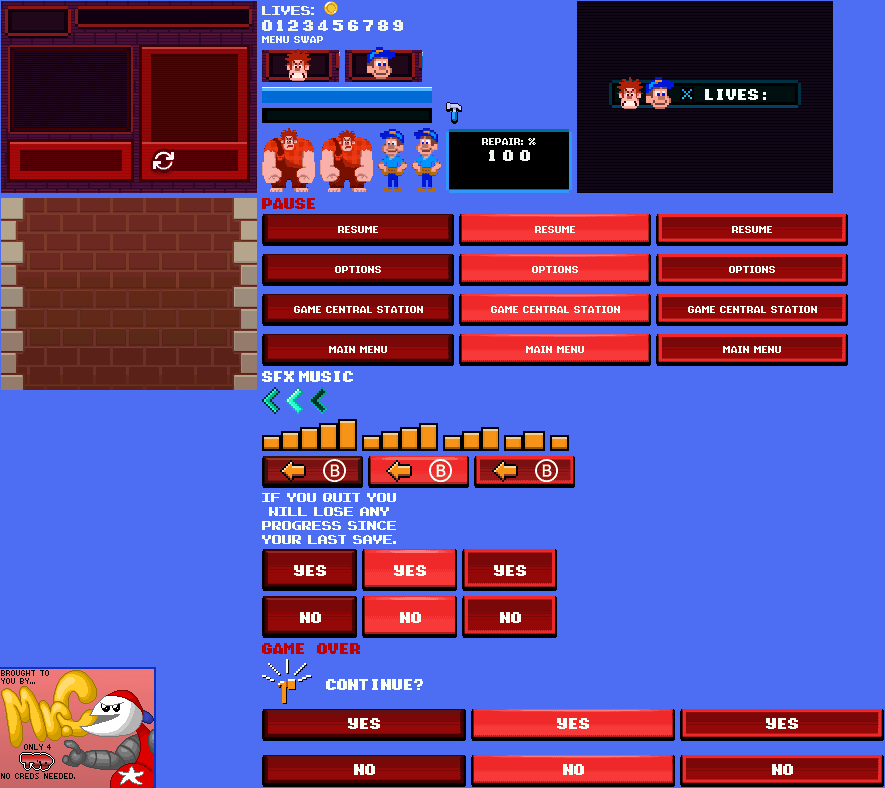
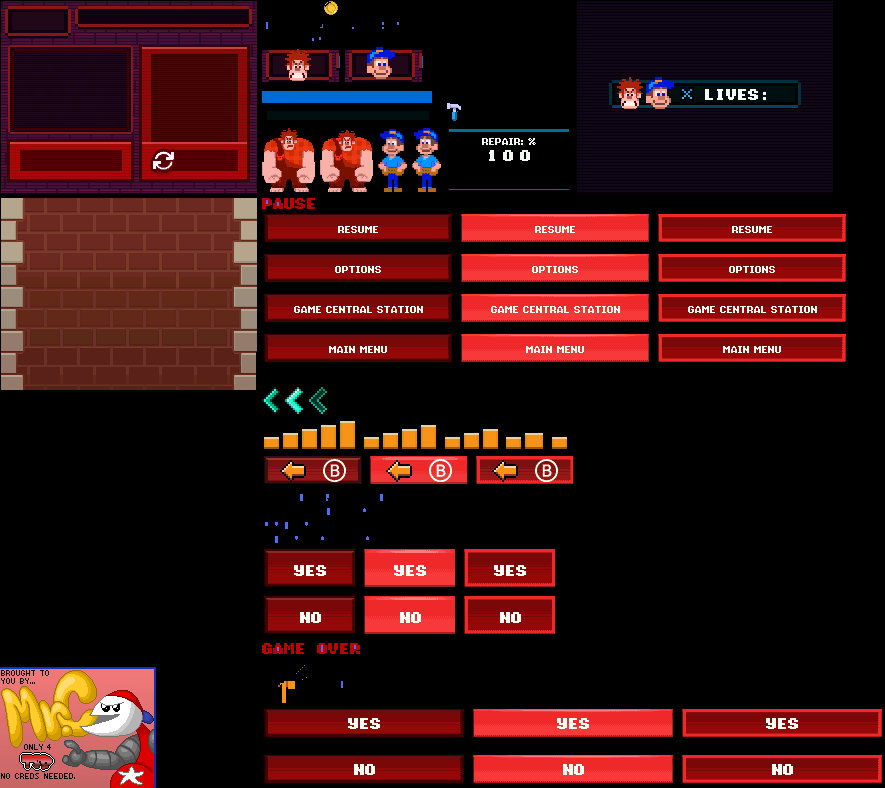
Sound bar exists but still need to create a cursor and some text for it

diff --git a/Sprint0/PauseMenu/PauseMenuHandler.cs b/Sprint0/PauseMenu/PauseMenuHandler.cs
@@ -10,31 +10,58 @@ namespace Poggus.PauseMenu
     public class PauseMenuHandler
     {
         private static float VOLSCALE = 0.2f;
-        private static float VOLFULL = 1f;
-        private static float VOLOFF = 1f;
+        private static float VOLFULL = 1.0f;
+        private static float VOLOFF = 0.0f;
         private Game1 game;
         ISprite Resume;
         ISprite Options;
+        ISprite SoundBar;
         Rectangle ResumeLoc = new Rectangle(new Point(330, 100), new Point(384, 64));
         Rectangle OptionsLoc = new Rectangle(new Point(330, 200), new Point(384, 64));
+        Rectangle Backdrop = new Rectangle(new Point(0, 0), new Point(1100, 1100));
+        Rectangle SoundLoc = new Rectangle(new Point(400, 200), new Point(95, 32));
         float volume;
-        Boolean cursor = true;
-        public Boolean options = false;
+        Boolean cursor = true; //true = resume false = options selected
+        public Boolean options = false; //true = in options false = normal page
+        public Boolean optionCursor = false; //true = difficulty false = volume
         public PauseMenuHandler(Game1 game)
         {   
             this.game = game;
             volume = game.soundManager.volume;
             Resume = game.pauseSpriteFactory.GetNewResumeSprite();
             Resume.CurrentFrame = 1;
+            SoundBar = game.pauseSpriteFactory.GetNewSoundBarSprite();
             Options = game.pauseSpriteFactory.GetNewOptionsSprite();
             Options.IsUISprite = true;
             Resume.IsUISprite = true;
+            SoundBar.IsUISprite = true;
         }
-
+        private void getSoundFrame()
+        {
+            volume = game.soundManager.volume;
+            if(volume <= 0.2f && volume > 0.0f)
+            {
+                SoundBar.CurrentFrame = 0;
+            } else if (volume <= 0.4f && volume > 0.2f)
+            {
+                SoundBar.CurrentFrame = 1;
+            } else if (volume <= 0.6f && volume > 0.4f)
+            {
+                SoundBar.CurrentFrame = 2;
+            } else if (volume <= 0.8f && volume > 0.6f)
+            {
+                SoundBar.CurrentFrame = 3;
+            } else if (volume <= 1.0f && volume > 0.8f)
+            {
+                SoundBar.CurrentFrame = 4;
+            }
+        }
+        
         public void Update()
         {
-            ResumeLoc = new Rectangle(new Point(330, 100), new Point(384, 64));
-            OptionsLoc = new Rectangle(new Point(330, 200), new Point(384, 64));
+            ResumeLoc = new Rectangle(new Point(330, 200), new Point(384, 64));
+            OptionsLoc = new Rectangle(new Point(330, 300), new Point(384, 64));
+            getSoundFrame();
         }
 
         public void increaseVolume()
@@ -43,6 +70,7 @@ namespace Poggus.PauseMenu
             {
                 volume += VOLSCALE;
             }
+            game.soundManager.volume = volume;
         }
         public void decreaseVolume()
         {
@@ -50,6 +78,11 @@ namespace Poggus.PauseMenu
             {
                 volume -= VOLSCALE;
             }
+            game.soundManager.volume = volume;
+        }
+        public void selectNextOptions()
+        {
+            optionCursor = !optionCursor;
         }
         public void toggleOptions()
         {
@@ -57,12 +90,9 @@ namespace Poggus.PauseMenu
         }
         public void executeButton()
         {
-            if (options)
+            if (!options)
             {
-
-            }
-            else
-            {
+                
                 if (cursor)
                 {
                     game.togglePause();
@@ -80,7 +110,9 @@ namespace Poggus.PauseMenu
             {
                 if (options)
                 {
-                    
+                    batch.Draw(fadeImage, Backdrop, Color.Black);
+                    getSoundFrame();
+                    if(volume > 0) SoundBar.Draw(batch, SoundLoc);
                 }
                 else
                 {

diff --git a/Sprint0/Commands/MenuLeftCommand.cs b/Sprint0/Commands/MenuLeftCommand.cs
@@ -13,7 +13,16 @@ namespace Poggus.Commands
         }
         public void Execute()
         {
-
+            if (game.Paused() && !game.inventoryOpen)
+            {
+                if (game.menuHandler.options)
+                {
+                    if (!game.menuHandler.optionCursor)
+                    {
+                        game.menuHandler.decreaseVolume();
+                    }
+                }
+            }
         }
     }
 }

diff --git a/Sprint0/Commands/MenuRightCommand.cs b/Sprint0/Commands/MenuRightCommand.cs
@@ -13,7 +13,16 @@ namespace Poggus.Commands
         }
         public void Execute()
         {
-
+            if(game.Paused() && !game.inventoryOpen)
+            {
+                if (game.menuHandler.options)
+                {
+                    if (!game.menuHandler.optionCursor)
+                    {
+                        game.menuHandler.increaseVolume();
+                    }
+                }
+            }
         }
     }
 }

diff --git a/Sprint0/PauseMenu/PauseSprites/SoundBarSprite.cs b/Sprint0/PauseMenu/PauseSprites/SoundBarSprite.cs
@@ -9,7 +9,7 @@ namespace Poggus.PauseMenu.PauseSprites
     class SoundBarSprite : AbstractSprite
     {
         
-            public SoundBarSprite(Texture2D texture) : base(texture, new Rectangle[3])
+            public SoundBarSprite(Texture2D texture) : base(texture, new Rectangle[5])
             {
                 SourceRect[0] = new Rectangle(550, 435, 19, 16);
                 SourceRect[1] = new Rectangle(504, 431, 41, 20);

diff --git a/Sprint0/Main/Game1.cs b/Sprint0/Main/Game1.cs
@@ -316,6 +316,10 @@ namespace Poggus
         {
             isPaused = !isPaused;
             link.State.Idle();
+            if (!isPaused)
+            {
+                menuHandler.options = false;
+            }
         }
 
         public void toggleSound()

diff --git a/Sprint0/Commands/MenuUpCommand.cs b/Sprint0/Commands/MenuUpCommand.cs
@@ -17,7 +17,7 @@ namespace Poggus.Commands
             {
                 if (game.menuHandler.options)
                 {
-                    
+                    game.menuHandler.selectNextOptions();
                 }
                 else
                 {

diff --git a/Sprint0/Commands/MenuDownCommand.cs b/Sprint0/Commands/MenuDownCommand.cs
@@ -17,7 +17,7 @@ namespace Poggus.Commands
             {
                 if (game.menuHandler.options)
                 {
-
+                    game.menuHandler.selectNextOptions();
                 }
                 else
                 {
